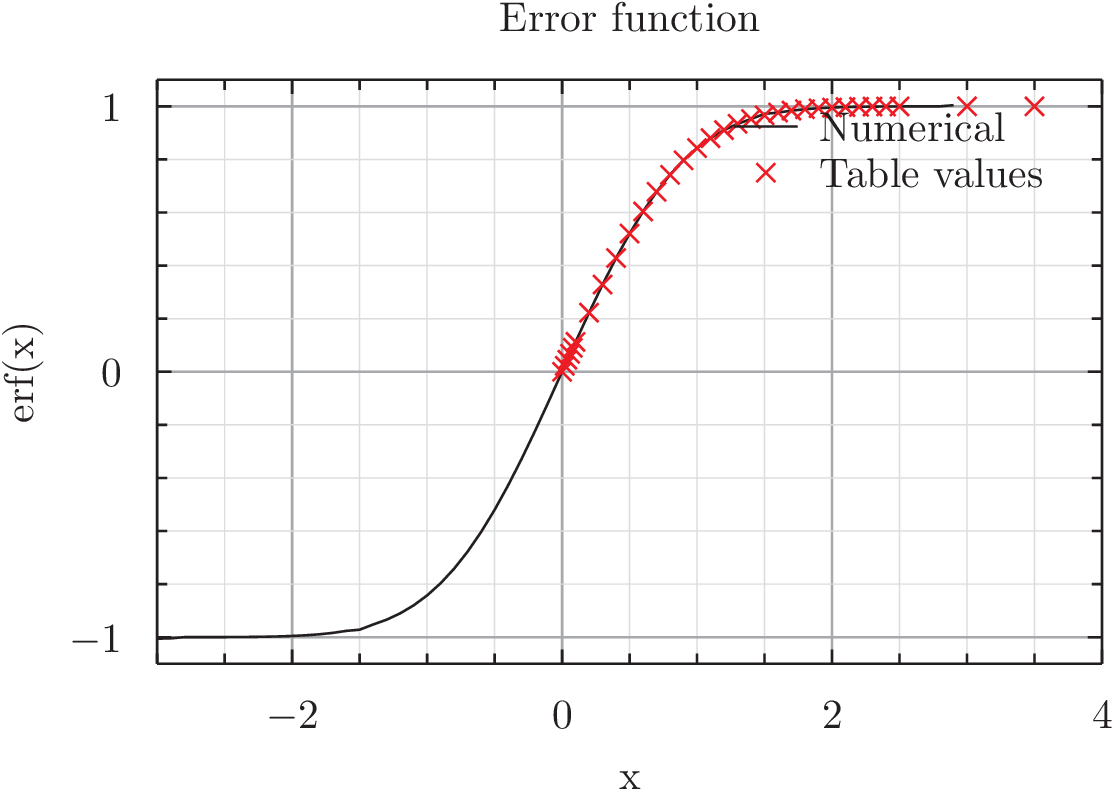
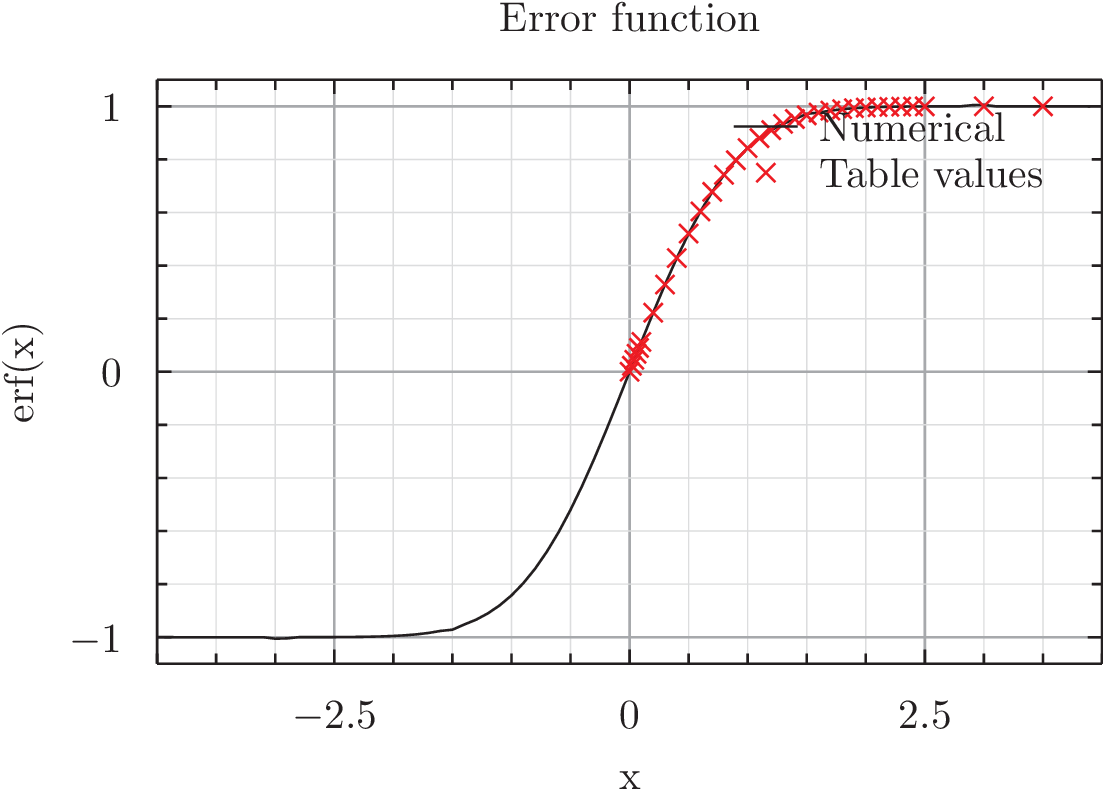
did quadratures part A

diff --git a/homework/quadratures/A/main.cs b/homework/quadratures/A/main.cs
@@ -15,7 +15,7 @@ class main{
 		
 		//Test of error function
 		StreamWriter erfVal = new StreamWriter("erf.dat"); 
-		for(double z =-3; z<=3; z+=0.1)
+		for(double z =-4; z<=4; z+=0.1)
 			erfVal.WriteLine($"{z}	{erf(z)}"); 
 		erfVal.Close(); 
 
